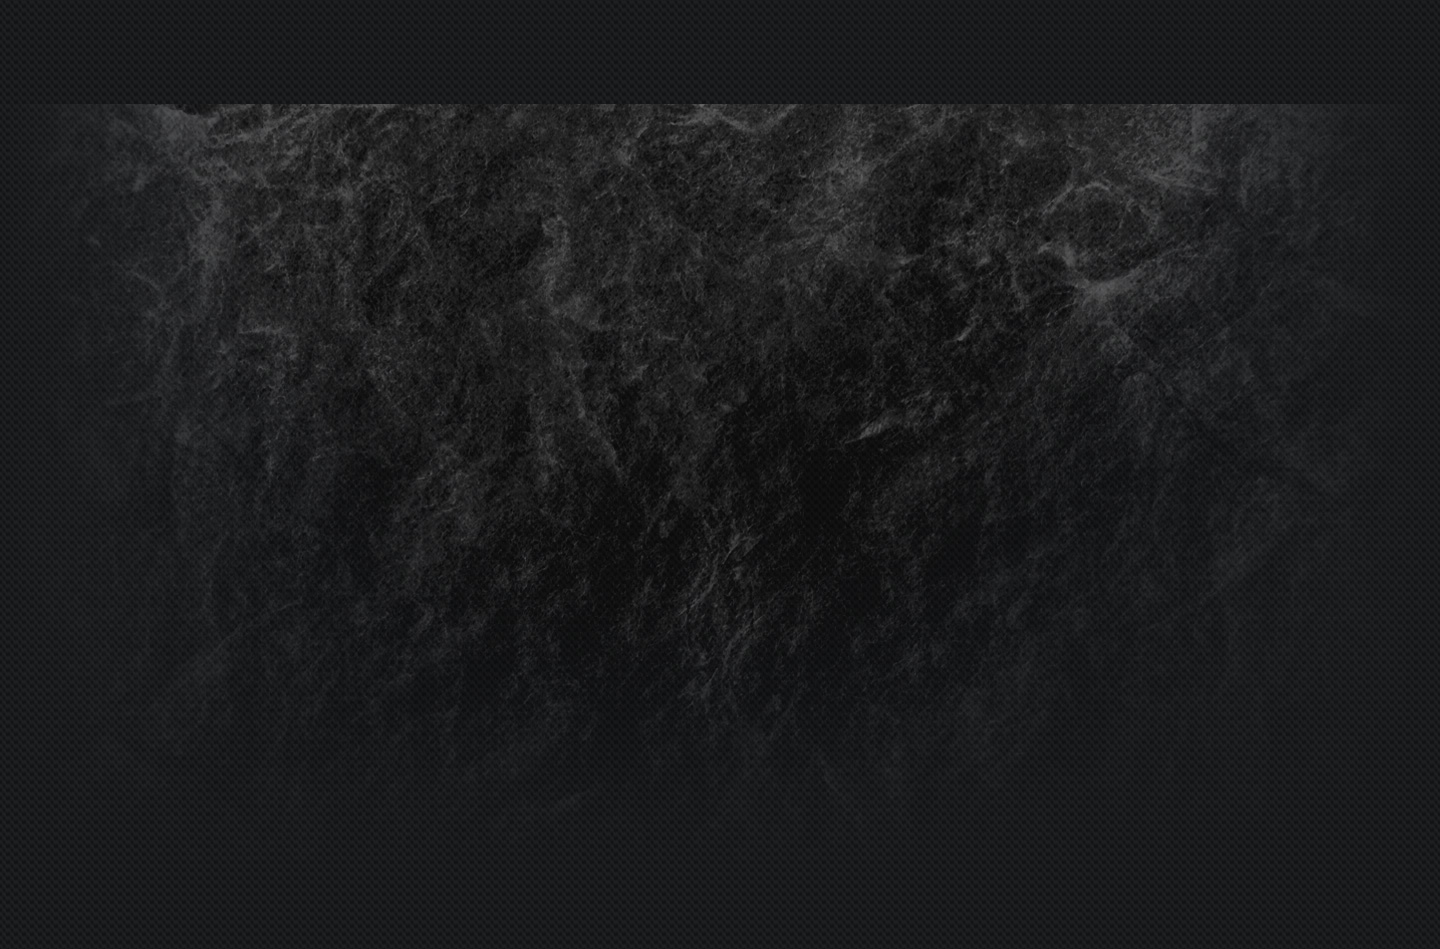
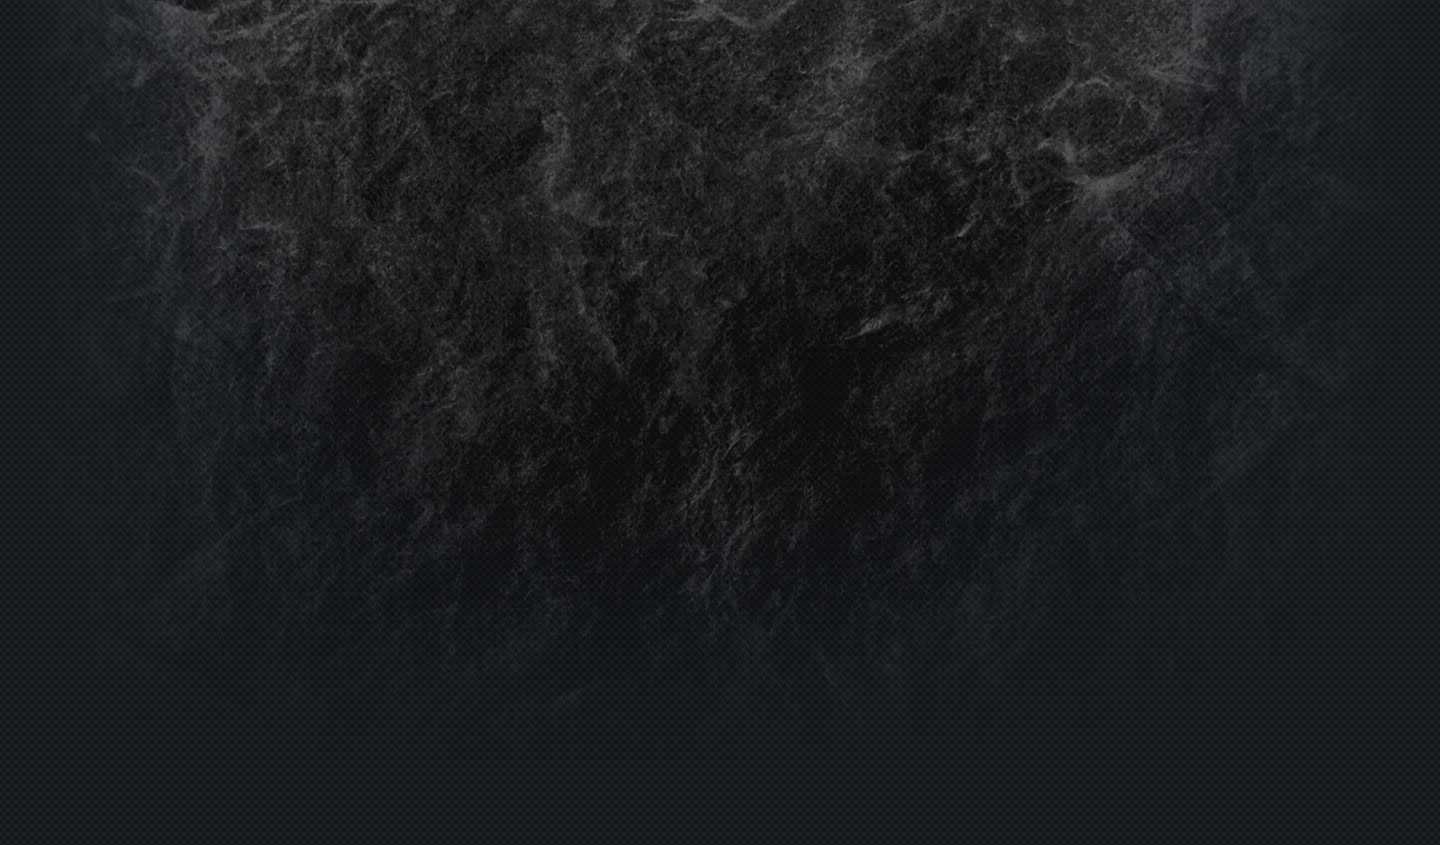
Changed the navbar to look more like the 'preferred' style. Will implement buttons later. replaced A LOT of css with more useful stuff.

diff --git a/index.html b/index.html
@@ -11,62 +11,54 @@
 	<link rel="stylesheet" href="./src/css/style.css">
 	<script type="text/javascript" src="./src/main.js"></script>
 </head>
-<nav class="navbar navbar-inverse navbar-fixed-top">
-	<div class="container-fluid">
-		<!-- Brand and toggle get grouped for better mobile display -->
-		<div class="navbar-header">
-			<button type="button" class="navbar-toggle collapsed" data-toggle="collapse" data-target="#bs-example-navbar-collapse-1">
-				<span class="sr-only">Toggle navigation</span>
-				<span class="icon-bar"></span>
-				<span class="icon-bar"></span>
-				<span class="icon-bar"></span>
-			</button>
-			<a class="navbar-brand" href="#">
+<nav class="navbar navbar-inverse navbar-fixed-top customNav">
+	<div id="container">
+		<div class="collapse navbar-collapse" id="navImg">
+			<a class="nav navbar-nav">
 				<img id="logo" alt="Brand" src="src/images/logo.png">
 			</a>
 		</div>
-
-		<!-- Collect the nav links, forms, and other content for toggling -->
-		<div class="collapse navbar-collapse" id="bs-example-navbar-collapse-1">
+		<div class="collapse navbar-collapse" id="navButtons">
 			<ul class="nav navbar-nav">
-				<li class="active"><a href="#">Games<span class="sr-only">(current)</span></a></li>
-				<li><a href="#">Forum</a></li>
+				<li ><a href="#">Games<span class="sr-only">(current)</span></a></li>
+				<li class="active"><a href="#">Forum</a></li>
 				<li><a href="#">Streams</a></li>
 				<li><a href="#">About</a></li>
 			</ul>
-		</div><!-- /.navbar-collapse -->
-
-	</div><!-- /.container-fluid -->
+		</div>
+	</div>
 </nav>
 <body>
-	<div id="body">
-		<div>
+	<div id="background">
+		<div id="body">
 			<div>
-				<div class="featured">
-					<img src="src/images/featured-game.png" alt="">
-				</div>
-				<div class="section">
-					<div>
-						<h3>About Us</h3>
-						<div>
-							<p>
-								The Exordium is a Gaming Community in which we play a wide variety of games like World of Warcraft, Star Wars The Old Republic, League of Legends etc and many more, as a group.  Some games like Minecraft are hosted on our own personal server.  This gives us maximum control and maximum perfomance 
-								as we have complete control over all resources rather than renting off another company. We even have our own Streaming Server !
-							</p>
-						</div>
+				<div>
+					<div class="featured">
+						<img src="src/images/featured-game.png" alt="">
 					</div>
-					<div>
-						<h3>NAS</h3>
+					<div class="section">
 						<div>
-							<a class="figure"><img src="src/images/games.jpg"></a>
-							<span>Private NAS System Login!</span>
+							<h3>About Us</h3>
+							<div>
+								<p>
+									The Exordium is a Gaming Community in which we play a wide variety of games like World of Warcraft, Star Wars The Old Republic, League of Legends etc and many more, as a group.  Some games like Minecraft are hosted on our own personal server.  This gives us maximum control and maximum perfomance 
+									as we have complete control over all resources rather than renting off another company. We even have our own Streaming Server !
+								</p>
+							</div>
 						</div>
-					</div>
-					<div>
-						<h3>Streaming</h3>
 						<div>
-							<a class="figure"><img src="src/images/media.jpg" id="streamsBtn"></a>
-							<span>Watch us Play!</span>
+							<h3>NAS</h3>
+							<div>
+								<a class="figure"><img src="src/images/games.jpg"></a>
+								<span>Private NAS System Login!</span>
+							</div>
+						</div>
+						<div>
+							<h3>Streaming</h3>
+							<div>
+								<a class="figure"><img src="src/images/media.jpg" id="streamsBtn"></a>
+								<span>Watch us Play!</span>
+							</div>
 						</div>
 					</div>
 				</div>

diff --git a/src/css/style.css b/src/css/style.css
@@ -9,123 +9,42 @@
 	src: url('../fonts/Philosopher-Bold/Philosopher-Bold.eot');
 	src: url('../fonts/Philosopher-Bold/Philosopher-Bold.woff') format('woff'), url('../fonts/Philosopher-Bold/Philosopher-Bold.ttf') format('truetype'), url('../fonts/Philosopher-Bold/Philosopher-Bold.svg') format('svg');
 }
+#logo{
+	height: 100%;
+}
+.customNav{
+	height: 195px;
+	background: url(../images/bg-header2.png) repeat-x top center;
+	border: transparent;
+}
+.customNav #container{
+	height:100%;
+	background: url(../images/bg-header.png) no-repeat top center;
+}
+.navbar .navbar-nav {
+	display: inline-block;
+	float: none;
+}
+.navbar .navbar-collapse {
+	text-align: center;
+}
+#navImg{
+	padding-top: 25px;
+}
+#navButtons{
+	padding-top: 5px;
+}
 body {
 	background: url(../images/bg-body.jpg) repeat;
-	color: #727272;
-	font-family: Arial, Helvetica, sans-serif;
-	font-size: 14px;
-	line-height: 1;
-	margin: 0;
-	min-width: 960px;
-	padding: 0;
-	padding-top: 50px;
+	padding-top: 145px;
 }
 #background {
-	background: url(../images/bg-page.jpg) no-repeat top center;
-	margin: 0;
-	padding: 0;
-}
-#header {
-	background: url(../images/bg-header2.png) repeat-x top center;
-	margin: 0;
-	padding: 0;
-}
-#header > div {
-	background: url(../images/bg-header.png) no-repeat top center;
-	margin: 0;
-	padding: 0;
-}
-#header > div > div {
-	height: 147px;
-	margin: 0 auto;
-	padding: 49px 0 0;
-	position: relative;
-	width: 960px;
-	z-index: 5;
-}
-#header a.logo {
-	display: block;
-	margin: 0 auto;
-	padding: 0;
-	width: 540px;
-}
-#header a.logo img {
-	border: 0;
-	display: block;
-}
-#header ul {
-	background: url(../images/bg-navigation.png) no-repeat center center;
-	bottom: -107px;
-	height: 98px;
-	left: 30px;
-	margin: 0 auto;
-	overflow: hidden;
-	padding: 9px 17px;
-	position: absolute;
-	width: 865px;
-}
-#header ul li {
-	display: block;
-	float: left;
-	list-style: none;
-	margin: 0 5px;
-	padding: 0;
-}
-#header ul li a {
-	background: url(../images/menu.png) no-repeat;
-	color: #a8a8a8;
-	display: block;
-	font-family: 'Philosopher-Bold';
-	font-size: 16px;
-	font-weight: normal;
-	height: 98px;
-	letter-spacing: 0.07em;
-	line-height: 104px;
-	margin: 0;
-	padding: 0;
-	text-align: center;
-	text-decoration: none;
-	text-transform: uppercase;
-	width: 163px;
-}
-#header ul li #menu1 {
-	background-position: 0 0;
-}
-#header ul li #menu2 {
-	background-position: -168px 0;
-}
-#header ul li #menu3 {
-	background-position: -335px 0;
-}
-#header ul li #menu4 {
-	background-position: -502px 0;
-}
-#header ul li #menu5 {
-	background-position: -669px 0;
-}
-#header ul li a:hover, #header ul li.selected a {
-	color: #fff;
-}
-#header ul li #menu1:hover, #header ul li.selected #menu1 {
-	background-position: 0 -113px;
-}
-#header ul li #menu2:hover, #header ul li.selected #menu2 {
-	background-position: -168px -113px;
-}
-#header ul li #menu3:hover, #header ul li.selected #menu3 {
-	background-position: -335px -113px;
-}
-#header ul li #menu4:hover, #header ul li.selected #menu4 {
-	background-position: -502px -113px;
-}
-#header ul li #menu5:hover, #header ul li.selected #menu5 {
-	background-position: -669px -113px;
+	background: url(../images/bg-page.jpg) no-repeat top;
 }
 #body {
-	background: url(../images/bg-body-header.png) no-repeat top center;
 	margin: 0 auto;
-	padding: 112px 0 0;
 	width: 960px;
+	padding-top: 150px;
 }
 #body p {
 	margin: 0;
@@ -845,7 +764,4 @@ body {
 	padding: 0;
 	text-align: center;
 	text-transform: capitalize;
-}
-#logo{
-	height: 100%;
 }
